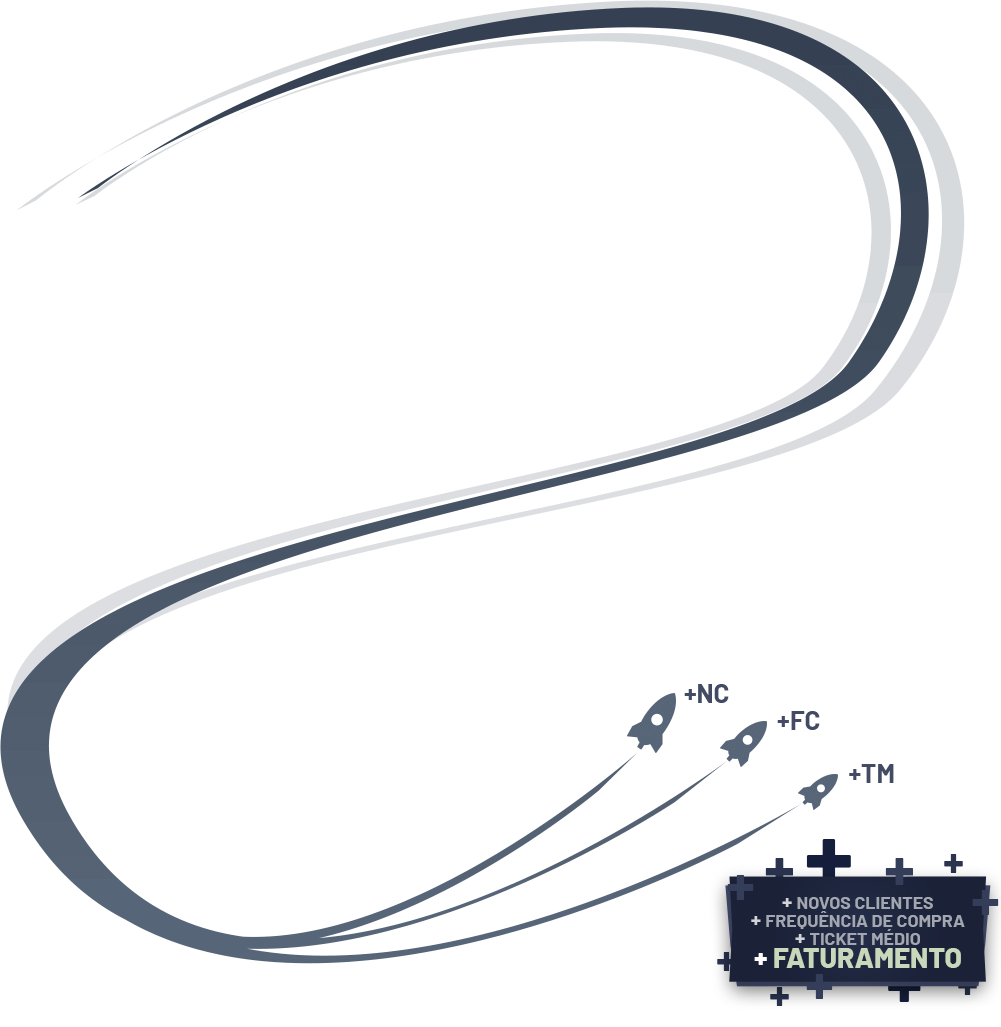
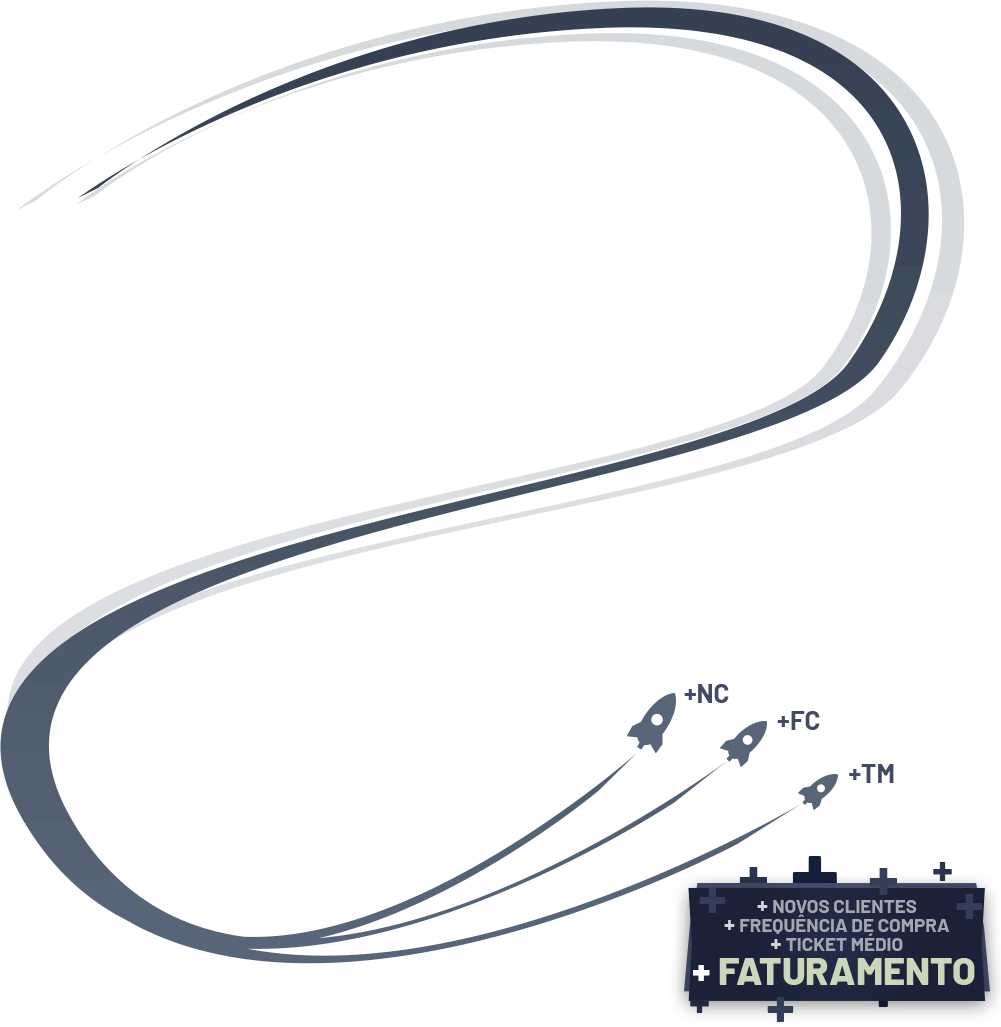
[Site GS] v2.0.3 Pequenos Ajustes para Publicação

Changed region(s): [[0.6813, 0.8101, 1.0, 0.9971]]

diff --git a/css/style.css b/css/style.css
@@ -564,7 +564,8 @@ a {
     text-transform: uppercase;
     letter-spacing: -1px; }
     .chamada-container .chamada-meio .change-text {
-      font-size: 3rem; }
+      font-size: 62px;
+      line-height: 60px; }
   .chamada-container .chamada-baixo {
     font-size: 1.0625rem;
     font-weight: 500; }

diff --git a/scss/_lp.scss b/scss/_lp.scss
@@ -53,7 +53,8 @@
         text-transform: uppercase;
         letter-spacing: -1px;
         .change-text {
-            font-size: $txt-tam-48px;
+            font-size: 62px;
+            line-height: 60px;
         }
     }
     .chamada-baixo {

diff --git a/src/paginas/sobre.php b/src/paginas/sobre.php
@@ -253,11 +253,8 @@
 									CEO & Founder
 								</p>
 								<p class="diretoria-minicurriculo">
-									Doutor em Computação - INPE<br>
-									Ontology Engineering - University of Münster (Germany)<br>
-									Pós-Graduado em Geographic Information Technologies - Ineversitat Jaume O - Espanha<br>
-									Cursos de atualização nas universidades PenState University (USA), Maine UUniversity (USA) e University of News Brasnwick (Canada)<br>
-									Coordenador/Executor/Consultor de projetos de TI e Inteligência em empresas como Bradesco, JBS/Friboi, Cadbury Adams, Reckitt Benckiser e Petz<br>
+									Planejamento e Execução de Projetos de TI<br>
+									Inteligência em empresas como JBS/Friboi, Reckitt Benckiser e Petz<br>
 								</p>
 								<p class="diretoria-linkedin">
 									<a href="https://www.linkedin.com/in/fernando-gibotti-b8128b35/" target="_blank">
@@ -276,9 +273,6 @@
 									VP Negócios & Co-Founder
 								</p>
 								<p class="diretoria-minicurriculo">
-									Pós-Graduado em GeoAnalytics - UFSCar<br>
-									Bacharel em PD-FEF<br>
-									16 anos de experiência em gestão de equipes de desenvolvimento e concepção de produtos de inovação e tecnologia.<br>
 									Planejamento e Execução de Projetos de TI<br>
 									Inteligência em empresas como JBS/Friboi, Reckitt Benckiser e Petz<br>
 								</p>
@@ -299,12 +293,8 @@
 									CFO
 								</p>
 								<p class="diretoria-minicurriculo">
-									Pós Graduado em Engenharia-USP<br>
-									Bacharel em Engenharia Civil<br>
-									Presidente Montage SIS Engenharia<br>
-									Ex-Diretor Sinduscon/SP<br>
-									Ex-Presidente Comitê da Bacia do R. Grande<br>
-									Planejamento e Execução de Projetos de TI e Inteligência em empresas como JBS/Friboi, Reckitt Benckiser e Petz<br>
+									Planejamento e Execução de Projetos de TI<br>
+									Inteligência em empresas como JBS/Friboi, Reckitt Benckiser e Petz<br>
 								</p>
 								<p class="diretoria-linkedin">
 									<a href="https://www.linkedin.com/in/germano-hernandes-filho-06453339/" target="_blank">

diff --git a/src/estruturas/slider.php b/src/estruturas/slider.php
@@ -26,11 +26,11 @@
 				<div class="mask rgba-black-strong pattern-5 d-flex justify-content-center align-items-center force-light-mobile">
 					<!-- CONTEÚDO TEXTO -->
 					<div class="chamada-container text-center white-text mx-5 wow fadeInUp">
-						<p class="chamada-topo">
-							Somos Especialistas
-						</p>
+						<!-- <p class="chamada-topo">
+							Somos Especialistas em aumentar 
+						</p> -->
 						<h2 class="chamada-meio">
-							<span class="change-text">Em aumentar o seu faturamento</span>
+							<span class="change-text">Somos Especialistas<br> em aumentaro seu faturamento</span>
 							<!-- <span id="typed2" style="white-space:pre;"></span> -->
 						</h2>
 						<p class="chamada-baixo">
